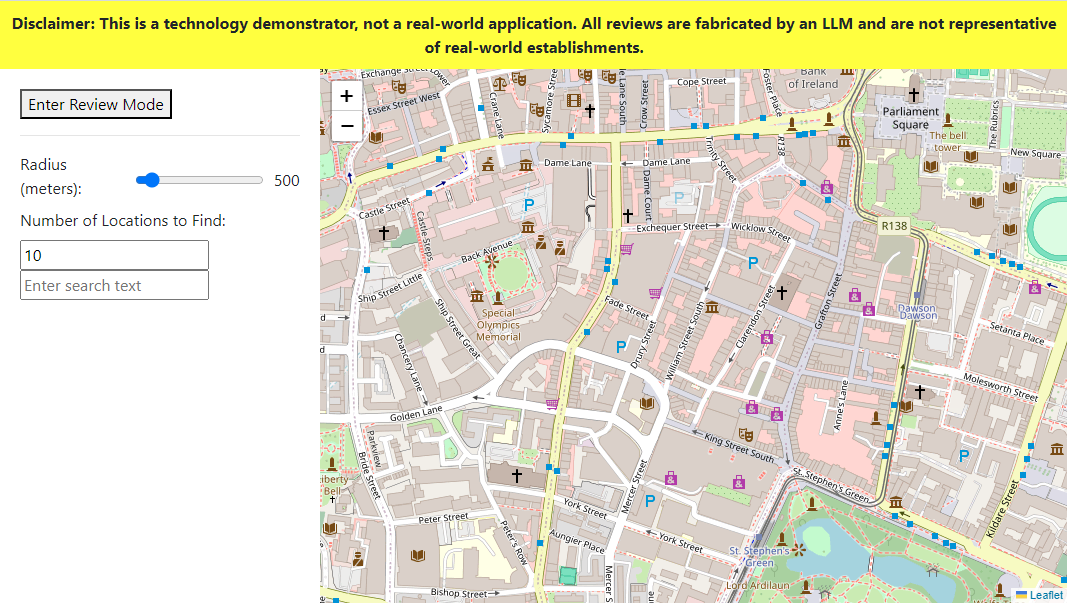
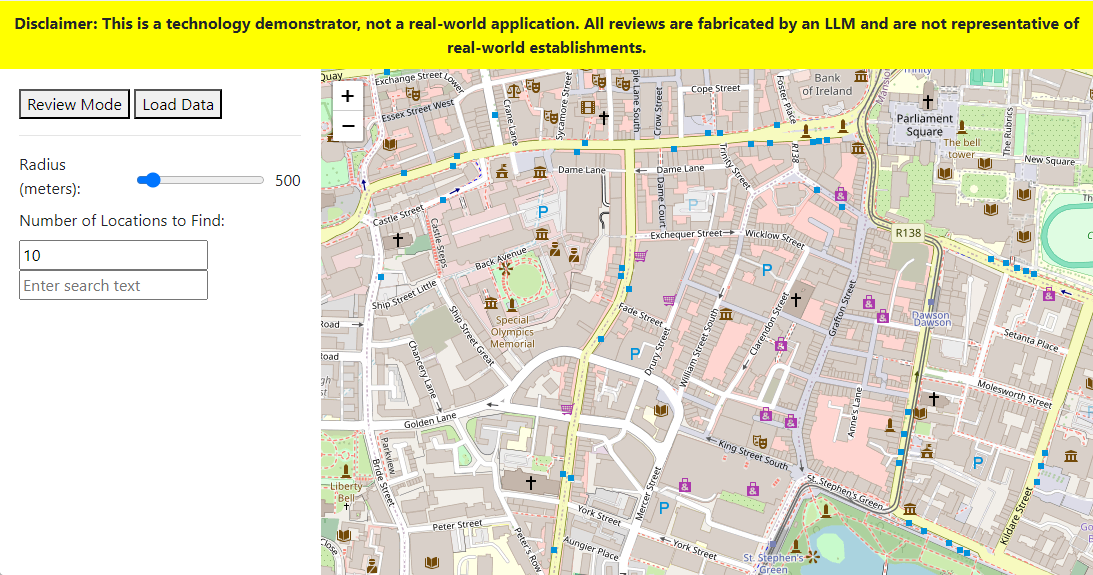
adding UI-based data loader function

diff --git a/src/public/js/index.ts b/src/public/js/index.ts
@@ -1,44 +1,76 @@
 import { mapUtils } from './map';
 import { attachFindFunctionality } from './find';
 import { attachReviewFunctionality } from './review';
+import { attachLoadFunctionality } from './load';
 
 document.addEventListener('DOMContentLoaded', function() {
     fetchConfig().then(config => {
         mapUtils.initMap(config.MAP_INIT_LATITUDE, config.MAP_INIT_LONGITUDE).then(() => {
             attachFindFunctionality();
             attachReviewFunctionality();
+            attachLoadFunctionality();
         }).catch(error => {
             console.error('Error initializing map:', error);
         });    
     });
     
-    const modeToggle = document.getElementById('modeToggle') as HTMLButtonElement;
-    if (modeToggle) {
-        modeToggle.addEventListener('click', toggleMode);
+    const reviewModeButton = document.getElementById('reviewModeButton') as HTMLButtonElement;
+    if (reviewModeButton) {
+        reviewModeButton.addEventListener('click', toggleReviewMode);
+    }
+
+    const loadModeButton = document.getElementById('loadModeButton') as HTMLButtonElement;
+    if (loadModeButton) {
+        loadModeButton.addEventListener('click', toggleLoadMode);
     }
 
 });
 
-type Mode = 'find' | 'review';
+type Mode = 'find' | 'review' | 'load';
 let currentMode: Mode = 'find';
 
-function toggleMode(): void {
+function toggleReviewMode(): void {
     const findWidgets = document.getElementById('findWidgets') as HTMLElement;
     const reviewWidgets = document.getElementById('reviewWidgets') as HTMLElement;
-    const modeToggle = document.getElementById('modeToggle') as HTMLButtonElement;
+    const loadModeButton = document.getElementById('loadModeButton') as HTMLButtonElement;
+    const reviewModeButton = document.getElementById('reviewModeButton') as HTMLButtonElement;
 
-    if (currentMode === 'find') {
-        findWidgets.style.display = 'none';
+    if (currentMode !== 'review') {
         reviewWidgets.style.display = 'block';
-        modeToggle.textContent = 'Exit Review Mode';
+        findWidgets.style.display = 'none';
+        loadModeButton.style.display = 'none';
+        reviewModeButton.textContent = 'Exit Review Mode';
         currentMode = 'review';
     } else {
         findWidgets.style.display = 'block';
+        loadModeButton.style.display = 'block';
         reviewWidgets.style.display = 'none';
-        modeToggle.textContent = 'Enter Review Mode';
+        reviewModeButton.textContent = 'Review Mode';
         currentMode = 'find';
     }
-    mapUtils.clearAllMarkers(); // Ensure mapUtils is properly typed or declared
+    mapUtils.clearAllMarkers();
+}
+
+function toggleLoadMode(): void {
+    const findWidgets = document.getElementById('findWidgets') as HTMLElement;
+    const loadWidgets = document.getElementById('loadWidgets') as HTMLElement;
+    const loadModeButton = document.getElementById('loadModeButton') as HTMLButtonElement;
+    const reviewModeButton = document.getElementById('reviewModeButton') as HTMLButtonElement;
+
+    if (currentMode !== 'load') {
+        loadWidgets.style.display = 'block';
+        findWidgets.style.display = 'none';
+        reviewModeButton.style.display = 'none';
+        loadModeButton.textContent = 'Exit Load Mode';
+        currentMode = 'load';
+    } else {
+        findWidgets.style.display = 'block';
+        reviewModeButton.style.display = 'block';
+        loadWidgets.style.display = 'none';
+        loadModeButton.textContent = 'Load Mode';
+        currentMode = 'find';
+    }
+    mapUtils.clearAllMarkers();
 }
 
 function getCurrentMode(): Mode {

diff --git a/src/api/astraAmenityReviews.ts b/src/api/astraAmenityReviews.ts
@@ -167,13 +167,22 @@ async function save(amenity: Amenity): Promise<void> {
 
 // File content based on this output, which then needed combining from multiple files
 // astra db unload -o csv -url ./amenity_reviews -query 'SELECT amenity_id ,review_id ,amenity_name, coords,locality, metadata, rating, reviewer_name ,\"text\" as c_text,\"type\"  as c_type,\"vector\" as c_vector FROM restsearch.amenity_reviews' -- vectors
+
+let loadCounter = 0;
+let loadingComplete = false;
+
+function loadProgress() {
+    return loadingComplete ? -1 : loadCounter;
+}
+
 async function load() {
     const nativeClient = await astra.getNativeClient();
+    loadingComplete = false;
+    loadCounter = 0;
 
     const file = './amenity_reviews.csv.gz';
     const fileStream = fs.createReadStream(file).pipe(zlib.createGunzip());
     const concurrentLimit = 50;
-    let counter = 0;
     const processingQueue: Promise<void>[] = [];
 
     const parsingComplete = new Promise<void>((resolve, reject) => {
@@ -186,9 +195,9 @@ async function load() {
             step: (result, parser) => {
                 parser.pause();
                 const processPromise = processRow(result.data as RowData, nativeClient).then(() => {
-                    counter++;
-                    if (counter % 100 === 0) {
-                        console.log(`Processed ${counter} records`);
+                    loadCounter++;
+                    if (loadCounter % 100 === 0) {
+                        console.log(`Processed ${loadCounter} records`);
                     }
                 });
                 processingQueue.push(processPromise);
@@ -210,7 +219,8 @@ async function load() {
                 // Wait for any remaining queued operations to finish
                 await Promise.all(processingQueue);
                 console.log('CSV file successfully processed');
-                console.log(`Total records processed: ${counter}`);
+                console.log(`Total records processed: ${loadCounter}`);
+                loadingComplete = true;
                 resolve();
             },
             error: (error) => {
@@ -257,5 +267,5 @@ async function processRow(row: RowData, nativeClient: Client) {
 }
 
 export {
-    save, load, findWithinRadiusUsingText, findWithinRadius
+    save, load, loadProgress, findWithinRadiusUsingText, findWithinRadius
 };

diff --git a/src/public/js/load.ts b/src/public/js/load.ts
@@ -1,0 +1,53 @@
+function attachLoadFunctionality() {
+    const loadModeButton = document.getElementById('loadModeButton') as HTMLButtonElement;
+    const loadDataButton = document.getElementById('loadDataButton') as HTMLButtonElement;
+    const progressText = document.getElementById('progress-text') as HTMLElement;
+
+    if (!progressText || !loadDataButton || !loadModeButton) {
+        console.error('Required elements not found in the DOM');
+        return;
+    }
+
+    loadDataButton.addEventListener('click', () => {
+        loadModeButton.style.display = 'none'; // Hide the Load Data button        
+        loadDataButton.style.display = 'none'; // Hide the Load Data button        
+
+        // Start the load process
+        fetch('/load')
+            .then(response => {
+                if (!response.ok) {
+                    throw new Error('Load request failed');
+                }
+                // Don't wait for the load to complete, start updating progress immediately
+                updateProgress();
+            }).catch(error => {
+                console.error('Error starting load:', error);
+                progressText.innerText = 'Error starting load.';
+            });
+    
+        // Start updating the progress immediately after initiating the load
+        updateProgress();
+    });
+        
+    function updateProgress() {
+        fetch('/load-progress')
+            .then(response => response.json())
+            .then(data => {
+                if (data.loadedRecords === -1) {
+                    // Load complete
+                    progressText.innerText = 'Load Complete!';
+                    loadModeButton.style.display = 'block';
+                } else {
+                    // Update progress text
+                    progressText.innerText = `Records loaded: ${data.loadedRecords}`;
+                    setTimeout(updateProgress, 1000); // Continue updating every second
+                }
+            })
+            .catch(error => {
+                console.error('Error:', error);
+                progressText.innerText = 'Error fetching progress.';
+            });
+    }
+}
+
+export { attachLoadFunctionality };

diff --git a/src/app.ts b/src/app.ts
@@ -3,7 +3,7 @@ import dotenv from 'dotenv';
 dotenv.config();
 import express, { Request, Response } from 'express';
 import generateAndWriteReviews from './api/reviewGenerator';
-import { findWithinRadiusUsingText, findWithinRadius, load } from './api/astraAmenityReviews';
+import { findWithinRadiusUsingText, findWithinRadius, load, loadProgress } from './api/astraAmenityReviews';
 import { Amenity } from './schema/Amenity';
 const app = express();
 const port = 3000;
@@ -69,6 +69,11 @@ app.get('/load', async (req: Request, res: Response) => {
         console.error('Load failed:', error);
         res.status(500).send('Load failed');
     }
+});
+
+app.get('/load-progress', (req, res) => {
+    const progress = loadProgress();
+    res.json({ loadedRecords: progress });
 });
 
 app.get('/config', (req, res) => {

diff --git a/README.md b/README.md
@@ -90,20 +90,16 @@ CREATE TABLE restsearch.amenity_reviews (
 
 ### Load Data
 
-While there is a "review" mode that allows you to generate your own reviews, this repository provides some pre-computed reviews in the default location of Dublin, Ireland. This will save you the costs of invoking an LLM to generate these reviews. 
+While there is a "review" mode that allows you to generate your own reviews, this repository provides some pre-computed reviews in the default location of Dublin, Ireland. This will save you the costs of invoking an LLM to generate these reviews. To load data without using the "review" mode, press the "Load Data" button, and then the "Start Load" button:
 
-A built-in data loader is able to load external data, which is provided as `amenity_reviews.csv.gz`. If you wish to make your own version of this data, have a look at `src/api/astraAmenityReviews.ts` for a command line to unload data from an existing database, or you can follow the format example within the `.csv` file itself.
+<img src="readme/load1.png" alt="Start Load"/>
 
-To load data without using the "review" mode, navigate to the `/load` URL path, e.g. [http://localhost:3000/load](http://localhost:3000/load) which will start the load process. In the server console output you should see logs similar to:
+Load progress will update (sample data currently has 3381 records), and then finally be complete:
 
-```
-Processed 100 records
-Processed 200 records
-...
-Processed 3300 records
-CSV file successfully processed
-Total records processed: 3381
-```
+<img src="readme/load2.png" alt="Load Complete"/>
+
+At which point you can click the "Exit Load Mode" button.
+
 
 ## Using the Application
 
@@ -153,7 +149,7 @@ In the current incarnation of the application, all reviews have been filtered to
 
 This section will be less graphical in its explanation, but basically:
 
-1. Enter Review Mode by clicking the "Enter Review Mode" button.
+1. Enter Review Mode by clicking the "Review Mode" button.
 2. Adjust the Selection Parameters, and click on the map. As you click in different places, additional locations may be added to the total.
 3. You can remove all selections by clicking the "Reset Selection" button.
 4. The Review Parameters determine how many reviews will be generated for each of the selected restaurants. It follows a normal distribution; if you want all restaurants to have the same number of reviews, set standard deviation to `0`.
